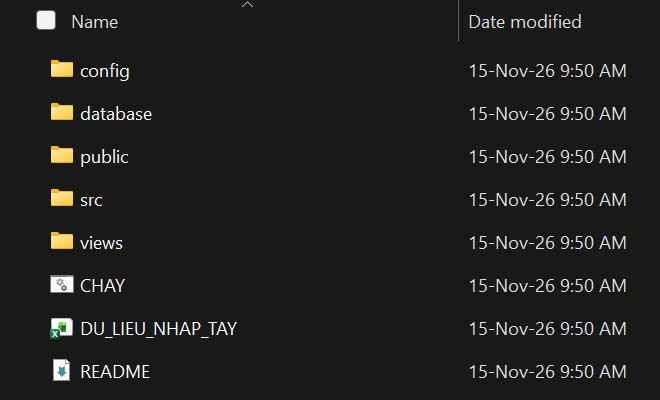
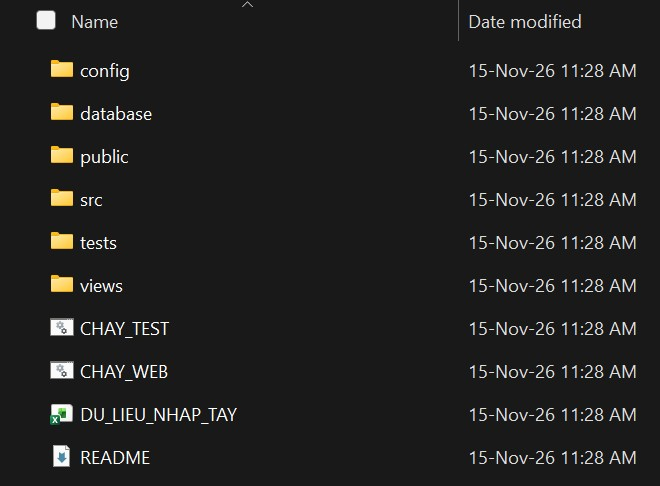
Tách file chạy: CHAY_WEB.bat chạy web, CHAY_TEST.bat chạy bộ test và dừng cho đọc kết quả
VÌ SAO: user bấm đúp tests\chay.php trong gói thì cửa sổ đóng ngay khi chạy xong, không kịp xem test
xanh hay đỏ; tên CHAY.bat (chạy web) cạnh tests\chay.php lại dễ nhầm. User chọn (15/11/2026): đổi tên
CHAY.bat thành CHAY_WEB.bat, thêm CHAY_TEST.bat; phần tìm XAMPP, bật MySQL, kiểm tài khoản root tách ra
database\chuan_bi.bat để hai file bat không chép code của nhau. CHAY_TEST.bat tạo cipher_test nếu thiếu,
chạy test rồi pause. Bước [1/4]..[4/4] in y như cũ nên ảnh cửa sổ CHAY_WEB trong báo cáo vẫn đúng.

Đã thử trong gói giải nén: CHAY_TEST.bat XANH 136 và dừng chờ phím, kể cả khi chưa có cipher_test;
CHAY_WEB.bat chạy web trả 200; cả hai bấm một mình (chưa giải nén) đều báo giải nén rồi dừng.
Thêm test chay_test_bat_chay_bo_test_roi_dung_cho_doc (đã thấy đỏ trước khi có file).

TÀI LIỆU: README (Cách 1, dòng chạy test), BAO_CAO (cây thư mục, Phần VI, ảnh thư mục giải nén chụp lại),
KIEM_THU (cách chạy test, 136 test), DU_LIEU_NHAP_TAY.xlsx sinh lại; mọi chỗ ghi CHAY.bat đổi thành CHAY_WEB.bat.

diff --git a/tests/chay.php b/tests/chay.php
@@ -2731,11 +2731,11 @@ function test_nhat_ky_hien_ip_o_moi_do_rong_man_hinh(PDO $pdo): void
     kiem(str_contains($trang, 'o-xuong-dong'), 'Ô mô tả dài phải được xuống dòng (o-xuong-dong)');
 }
 
-// Luật: CHAY.bat, hướng dẫn cài tay trong README và bước nạp dữ liệu mẫu trên máy chủ thật nạp đúng mọi file SQL có thật, theo thứ tự schema → seed → seed_demo.
-// Vì sao: User 13/11/2026 chốt hai đường chạy cho người chấm: bấm CHAY.bat, hoặc làm tay theo README (bảng Bước 4);
+// Luật: CHAY_WEB.bat, hướng dẫn cài tay trong README và bước nạp dữ liệu mẫu trên máy chủ thật nạp đúng mọi file SQL có thật, theo thứ tự schema → seed → seed_demo.
+// Vì sao: User 13/11/2026 chốt hai đường chạy cho người chấm: bấm CHAY_WEB.bat, hoặc làm tay theo README (bảng Bước 4);
 //         14/11/2026 chốt web thật có dữ liệu y như bản nộp (bước nap_mau trong deploy/dung_vps.sh).
 //         Sai thứ tự là hỏng: seed cần bảng của schema, seed_demo cần danh mục và tài khoản của seed.
-// Đỏ nghĩa là: Đổi tên, thêm, bớt file trong database/ mà quên sửa vòng for của CHAY.bat, bảng Bước 4 của README hoặc
+// Đỏ nghĩa là: Đổi tên, thêm, bớt file trong database/ mà quên sửa vòng for của CHAY_WEB.bat, bảng Bước 4 của README hoặc
 //         vòng for của nap_mau, hoặc ba nơi ghi thứ tự khác nhau.
 // Đừng: Ghép ba file thành một trong repo: schema.sql còn dùng nạp CSDL test, seed_demo tách riêng vì test dựa vào đúng 9 chứng chỉ của seed.
 // Nhóm: CSDL, ràng buộc, dữ liệu mẫu (Ng, Nj)
@@ -2743,22 +2743,22 @@ function test_chay_bat_va_readme_nap_du_file_sql_dung_thu_tu(PDO $pdo): void
 {
     $goc = __DIR__ . '/..';
     $coThat = array_map(fn(string $f): string => basename($f, '.sql'), glob("$goc/database/*.sql"));
-    kiem(preg_match('/for %%F in \(([^)]+)\) do/', file_get_contents("$goc/CHAY.bat"), $m) === 1, 'CHAY.bat phải nạp SQL bằng vòng "for %%F in (...)"');
+    kiem(preg_match('/for %%F in \(([^)]+)\) do/', file_get_contents("$goc/CHAY_WEB.bat"), $m) === 1, 'CHAY_WEB.bat phải nạp SQL bằng vòng "for %%F in (...)"');
     $thuTuBat = preg_split('/\s+/', trim($m[1]));
     preg_match_all('/^\| \d \| `database\\\\(\w+)\.sql` \|/m', file_get_contents("$goc/README.md"), $m);
     $thuTuReadme = $m[1];
-    kiem($thuTuBat === ['schema', 'seed', 'seed_demo'], 'CHAY.bat nạp theo thứ tự ' . implode(', ', $thuTuBat) . ', phải là schema, seed, seed_demo');
-    kiem($thuTuReadme === $thuTuBat, 'README Bước 4 ghi ' . implode(', ', $thuTuReadme) . ', khác CHAY.bat');
+    kiem($thuTuBat === ['schema', 'seed', 'seed_demo'], 'CHAY_WEB.bat nạp theo thứ tự ' . implode(', ', $thuTuBat) . ', phải là schema, seed, seed_demo');
+    kiem($thuTuReadme === $thuTuBat, 'README Bước 4 ghi ' . implode(', ', $thuTuReadme) . ', khác CHAY_WEB.bat');
     if (is_file("$goc/deploy/dung_vps.sh")) { // Gói nộp không có deploy/.
         kiem(preg_match('/for tep in ([\w ]+); do/', file_get_contents("$goc/deploy/dung_vps.sh"), $m) === 1
-            && preg_split('/\s+/', trim($m[1])) === $thuTuBat, 'Bước nap_mau trong deploy/dung_vps.sh phải nạp đúng thứ tự như CHAY.bat');
+            && preg_split('/\s+/', trim($m[1])) === $thuTuBat, 'Bước nap_mau trong deploy/dung_vps.sh phải nạp đúng thứ tự như CHAY_WEB.bat');
     }
     $thieu = array_diff($coThat, $thuTuBat);
     kiem($thieu === [], 'database/ có file không được nạp: ' . implode(', ', $thieu));
 }
 
-// Luật: CHAY.bat dừng và bảo giải nén khi không thấy database\ và public\ cạnh nó, và dừng khi một file SQL nạp hỏng.
-// Vì sao: Lỗi user gặp 13/11/2026: bấm CHAY.bat ngay trong file nén bằng WinRAR, WinRAR chỉ bung riêng file bat vào
+// Luật: CHAY_WEB.bat dừng và bảo giải nén khi không thấy database\ và public\ cạnh nó, và dừng khi một file SQL nạp hỏng.
+// Vì sao: Lỗi user gặp 13/11/2026: bấm CHAY_WEB.bat ngay trong file nén bằng WinRAR, WinRAR chỉ bung riêng file bat vào
 //         Temp\Rar$DIa..., cả 3 file SQL "cannot find the path" mà bat vẫn báo Xong, rồi web báo thiếu thư mục public.
 // Đỏ nghĩa là: Bỏ bước kiểm đủ file trước bước tìm XAMPP, hoặc lệnh nạp SQL quay về "if errorlevel 1" (mở file thất bại
 //         thì lệnh không chạy, errorlevel không đổi, nên lỗi bị nuốt).
@@ -2766,13 +2766,37 @@ function test_chay_bat_va_readme_nap_du_file_sql_dung_thu_tu(PDO $pdo): void
 // Nhóm: CSDL, ràng buộc, dữ liệu mẫu (Ng, Nj)
 function test_chay_bat_dung_khi_chay_trong_file_nen_hoac_nap_hong(PDO $pdo): void
 {
-    $bat = file_get_contents(__DIR__ . '/../CHAY.bat');
-    $timXampp = strpos($bat, '---------- 1. Tim XAMPP'); // Dòng tiêu đề bước 1, không phải dòng tóm tắt đầu file.
+    $bat = file_get_contents(__DIR__ . '/../CHAY_WEB.bat');
+    $timXampp = strpos($bat, 'call "database\chuan_bi.bat"'); // Bước tìm XAMPP nằm ở file chung, gọi từ dòng này.
     foreach (['database\schema.sql', 'public\index.php'] as $tep) {
         $kiemTep = strpos($bat, 'if not exist "' . $tep . '" goto loi_chua_giai_nen');
-        kiem($kiemTep !== false && $kiemTep < $timXampp, "CHAY.bat phải kiểm $tep trước khi tìm XAMPP");
+        kiem($kiemTep !== false && $timXampp !== false && $kiemTep < $timXampp,"CHAY_WEB.bat phải kiểm $tep trước khi tìm XAMPP");
     }
     kiem(preg_match('/< "database\\\\%%F\.sql" \|\| goto loi_nap/', $bat) === 1, 'Lệnh nạp SQL phải dừng bằng "|| goto loi_nap"');
+}
+
+// Luật: CHAY_TEST.bat chỉ chạy bộ test: chuẩn bị XAMPP, MySQL bằng database\chuan_bi.bat (CHAY_WEB.bat dùng chung), tạo cipher_test nếu thiếu, chạy tests\chay.php rồi dừng chờ bấm phím.
+// Vì sao: User 15/11/2026: bấm đúp tests\chay.php thì cửa sổ đóng ngay khi chạy xong, không kịp xem kết quả; tên CHAY.bat
+//         (chạy web) và tests\chay.php dễ nhầm nên đổi thành CHAY_WEB.bat, CHAY_TEST.bat; phần tìm XAMPP, bật MySQL tách ra một file chung.
+// Đỏ nghĩa là: CHAY_TEST.bat thiếu pause (cửa sổ lại tự đóng), thôi tạo cipher_test, hoặc một trong hai file bat tự chép lại phần tìm XAMPP.
+// Đừng: Gộp chạy test vào CHAY_WEB.bat; mỗi file bat làm đúng một việc, nhìn tên là biết.
+// Nhóm: CSDL, ràng buộc, dữ liệu mẫu (Ng, Nj)
+function test_chay_test_bat_chay_bo_test_roi_dung_cho_doc(PDO $pdo): void
+{
+    $goc = __DIR__ . '/..';
+    kiem(!is_file("$goc/CHAY.bat"), 'CHAY.bat đã đổi tên thành CHAY_WEB.bat');
+    kiem(is_file("$goc/database/chuan_bi.bat"), 'Thiếu database\chuan_bi.bat');
+    $chung = (string) @file_get_contents("$goc/database/chuan_bi.bat");
+    kiem(str_contains($chung, 'Tim XAMPP') && str_contains($chung, 'mysqld.exe'), 'chuan_bi.bat phải tìm XAMPP và bật MySQL');
+    foreach (['CHAY_WEB.bat', 'CHAY_TEST.bat'] as $ten) {
+        $bat = (string) @file_get_contents("$goc/$ten");
+        kiem(str_contains($bat, 'call "database\chuan_bi.bat"'), "$ten phải gọi database\\chuan_bi.bat");
+        kiem(!str_contains($bat, 'mysqld.exe') && !str_contains($bat, ':\xampp\php\php.exe'), "$ten không được tự chép phần tìm XAMPP, bật MySQL");
+    }
+    $test = (string) @file_get_contents("$goc/CHAY_TEST.bat");
+    kiem(str_contains($test, 'CREATE DATABASE IF NOT EXISTS cipher_test'), 'CHAY_TEST.bat phải tạo cipher_test nếu thiếu');
+    kiem(preg_match('/"%PHP%" "?tests\\\\chay\.php"?\r?\n(.*\r?\n){0,5}pause/', $test) === 1, 'CHAY_TEST.bat phải chạy tests\chay.php rồi pause');
+    kiem(!str_contains($test, '-S localhost'), 'CHAY_TEST.bat không được chạy web');
 }
 
 // Luật: Mọi ô ngày (date, datetime-local) nhận chữ dán dạng ngày/tháng/năm như ô ngày trong file Excel dữ liệu mẫu.
@@ -2792,10 +2816,10 @@ function test_o_ngay_nhan_chu_dan_tu_excel(PDO $pdo): void
         'Mẫu ngày/tháng/năm của docNgayDan phải khớp chữ Excel chép ra: 24/11/2026 00:00');
 }
 
-// Luật: Nhật ký ra màn hình chỉ in khi web chạy bằng php -S (CHAY.bat), mỗi lần một dòng có giờ, chữ bỏ dấu; CHAY.bat chạy php -S với -q.
-// Vì sao: User 14/11/2026: cửa sổ CHAY.bat chỉ toàn dòng Accepted/Closing vô nghĩa, cần biết từng thao tác. Trên VPS
+// Luật: Nhật ký ra màn hình chỉ in khi web chạy bằng php -S (CHAY_WEB.bat), mỗi lần một dòng có giờ, chữ bỏ dấu; CHAY_WEB.bat chạy php -S với -q.
+// Vì sao: User 14/11/2026: cửa sổ CHAY_WEB.bat chỉ toàn dòng Accepted/Closing vô nghĩa, cần biết từng thao tác. Trên VPS
 //         (PHP-FPM) không có cửa sổ nào để in, và in vào bộ test thì làm rối kết quả test.
-// Đỏ nghĩa là: inRaManHinh in cả khi không phải cli-server, in chữ có dấu (cửa sổ lệnh Windows vỡ chữ), hoặc CHAY.bat
+// Đỏ nghĩa là: inRaManHinh in cả khi không phải cli-server, in chữ có dấu (cửa sổ lệnh Windows vỡ chữ), hoặc CHAY_WEB.bat
 //         bỏ -q làm các dòng Accepted/Closing quay lại.
 // Đừng: Lọc dòng của PHP bằng findstr: đo 14/11/2026 findstr dồn dữ liệu, nhật ký không hiện kịp.
 // Nhóm: Giao diện, triển khai (Giao diện)
@@ -2810,7 +2834,7 @@ function test_nhat_ky_man_hinh_chi_in_khi_chay_bang_php_s(PDO $pdo): void
     $dong = file_get_contents($tep);
     unlink($tep);
     kiem(preg_match('/^\d{2}:\d{2}:\d{2}  \* admin: Them chung chi - Duong\R$/D', $dong) === 1, "Dòng in ra sai: $dong");
-    kiem(str_contains(file_get_contents(__DIR__ . '/../CHAY.bat'), '"%PHP%" -q -S localhost:'), 'CHAY.bat phải chạy php -S với -q');
+    kiem(str_contains(file_get_contents(__DIR__ . '/../CHAY_WEB.bat'), '"%PHP%" -q -S localhost:'), 'CHAY_WEB.bat phải chạy php -S với -q');
 }
 
 // Luật: Nút Xuất CSV, Bản in nằm ở dòng tiêu đề của Danh sách và Thống kê, mang theo bộ lọc và cách xếp đang xem.

diff --git a/src/nhat_ky.php b/src/nhat_ky.php
@@ -7,7 +7,7 @@ const NHAT_KY_MOI_TRANG = 50;
 
 // Ba mức của nhật ký (user chốt 14/11/2026), theo cách nhật ký người dùng xem thường chia (Windows Event Viewer;
 // OWASP khuyên đánh dấu riêng đăng nhập sai, thao tác rủi ro cao, dấu hiệu tấn công). Không có mức Lỗi hay Debug:
-// nhật ký này ghi việc người dùng làm, lỗi chương trình nằm ở log của PHP. Nhãn trên trang và chữ in ra cửa sổ CHAY.bat.
+// nhật ký này ghi việc người dùng làm, lỗi chương trình nằm ở log của PHP. Nhãn trên trang và chữ in ra cửa sổ CHAY_WEB.bat.
 const MUC_DO = [
     'thong_tin' => ['nhan' => 'Thông tin', 'mau' => 'secondary', 'man_hinh' => 'THONG TIN'],
     'canh_bao' => ['nhan' => 'Cảnh báo', 'mau' => 'yellow', 'man_hinh' => 'CANH BAO'],
@@ -79,10 +79,10 @@ function ghiNhatKy(PDO $pdo, string $hanhDong, ?string $loai = null, ?int $idDoi
     }
 }
 
-// Nhật ký ra cửa sổ dòng lệnh (user 14/11/2026: cửa sổ CHAY.bat phải cho biết hệ thống đang làm gì, thay cho các dòng
+// Nhật ký ra cửa sổ dòng lệnh (user 14/11/2026: cửa sổ CHAY_WEB.bat phải cho biết hệ thống đang làm gì, thay cho các dòng
 // Accepted/Closing vô nghĩa của PHP). Hai nguồn: ghiNhatKy() in mỗi thao tác, mở đầu bằng mức ([THONG TIN], [CANH BAO],
-// [NGUY HIEM]); khoi_dong.php in mỗi trang mở, và mỗi lần gửi form bị từ chối thành dòng [CANH BAO] kèm lý do. Chỉ in khi web chạy bằng máy chủ có sẵn của PHP (php -S, tức CHAY.bat); trên VPS (PHP-FPM) và trong bộ test (cli)
-// không in gì. Chữ bỏ dấu vì cửa sổ lệnh Windows hay vỡ chữ có dấu, như lời nhắn trong CHAY.bat. Ghi hỏng (cửa sổ đã
+// [NGUY HIEM]); khoi_dong.php in mỗi trang mở, và mỗi lần gửi form bị từ chối thành dòng [CANH BAO] kèm lý do. Chỉ in khi web chạy bằng máy chủ có sẵn của PHP (php -S, tức CHAY_WEB.bat); trên VPS (PHP-FPM) và trong bộ test (cli)
+// không in gì. Chữ bỏ dấu vì cửa sổ lệnh Windows hay vỡ chữ có dấu, như lời nhắn trong CHAY_WEB.bat. Ghi hỏng (cửa sổ đã
 // đóng) thì bỏ qua: nhật ký màn hình không được làm hỏng thao tác. $sapi, $dich chỉ để test thay được.
 function inRaManHinh(string $noiDung, string $sapi = PHP_SAPI, string $dich = 'php://stderr'): void
 {

diff --git a/scripts/tao_du_lieu_nhap_tay.py b/scripts/tao_du_lieu_nhap_tay.py
@@ -171,7 +171,7 @@ TRANG = [
 HUONG_DAN = [
     "Dữ liệu mẫu để thử nhập tay: Hệ thống quản lý chứng chỉ số và thời hạn sử dụng",
     "",
-    "1. Chạy web theo README (Cách 1: bấm CHAY.bat; Cách 2: cài tay), đăng nhập admin / Cipher@2026.",
+    "1. Chạy web theo README (Cách 1: bấm CHAY_WEB.bat; Cách 2: cài tay), đăng nhập admin / Cipher@2026.",
     "2. Nhập lần lượt từng trang tính, theo đúng số thứ tự: trang sau dùng dữ liệu trang trước tạo ra",
     "   (chứng chỉ chọn tên miền, tổ chức cấp phải có sẵn trong danh mục).",
     "3. Mỗi trang tính ghi form cần mở ở dòng đầu. Chép từng ô của một dòng vào form, bấm nút lưu, so với cột Kết quả mong đợi.",
@@ -180,8 +180,8 @@ HUONG_DAN = [
     "",
     "Ngày tự tính theo hôm nay (công thức =TODAY()+N): mở file ngày nào cũng ra đúng số ngày còn lại và đúng mốc cảnh báo.",
     "Ô ngày trên web dán được chữ ngày/tháng/năm: chép ô ngày trong file rồi dán thẳng vào ô ngày của form.",
-    "Chạy bằng CHAY.bat thì cửa sổ đen ghi từng thao tác kèm mức [THONG TIN] / [CANH BAO] / [NGUY HIEM]; lần bị từ chối là [CANH BAO] kèm lý do.",
-    "Muốn nhập lại từ đầu: bấm CHAY.bat và chọn C để nạp lại dữ liệu mẫu (xoá mọi thứ đã nhập).",
+    "Chạy bằng CHAY_WEB.bat thì cửa sổ đen ghi từng thao tác kèm mức [THONG TIN] / [CANH BAO] / [NGUY HIEM]; lần bị từ chối là [CANH BAO] kèm lý do.",
+    "Muốn nhập lại từ đầu: bấm CHAY_WEB.bat và chọn C để nạp lại dữ liệu mẫu (xoá mọi thứ đã nhập).",
     "Trang 7 cần máy có internet. badssl.com là máy chủ thử nghiệm ở Mỹ, đôi khi chậm vài giây: nếu một dòng báo không trả lời thì đọc lại.",
 ]
 

diff --git a/temp/cong_cu_bao_cao/chup_het.py b/temp/cong_cu_bao_cao/chup_het.py
@@ -102,7 +102,7 @@ def cai_dat():
     Giao diện tiếng Anh (cookie pma_lang=en) cho khớp chữ trong hướng dẫn. Ảnh tạo CSDL vẽ lại trạng thái máy người chấm
     lúc CHƯA có cipher_dev: ẩn các CSDL có sẵn trên máy chụp (AN) khỏi cây bên trái và bảng, sửa dòng Total theo số dòng
     còn lại; không bấm Create, không đụng CSDL nào. Ba ảnh còn lại của phần cài đặt chụp bằng chup_cua_so.ps1:
-      - chay_bat: conhost.exe cmd.exe /c "<bản giải nén>\\CHAY.bat", chờ 17 giây (10 giây của câu hỏi nạp lại), rồi
+      - chay_bat: conhost.exe cmd.exe /c "<bản giải nén>\\CHAY_WEB.bat", chờ 17 giây (10 giây của câu hỏi nạp lại), rồi
         -TieuDe "Cipher Cert" -Lop ConsoleWindowClass; đóng cửa sổ là tắt web.
       - xampp_control: chạy C:\\xampp\\apache\\bin\\httpd.exe và C:\\xampp\\xampp-control.exe, -MaTienTrinh <mã của
         xampp-control>; ứng dụng này không theo tỉ lệ màn hình nên ảnh ra có phần thừa, cắt còn 663x433; xong thì tắt cả hai.

diff --git a/src/khoi_dong.php b/src/khoi_dong.php
@@ -8,7 +8,7 @@ require_once __DIR__ . '/nhat_ky.php';
 
 batDauPhien();
 
-// Chạy bằng php -S (CHAY.bat): mỗi trang mở in một dòng ra cửa sổ (inRaManHinh ở nhat_ky.php): cách gửi, địa chỉ, mã trả về,
+// Chạy bằng php -S (CHAY_WEB.bat): mỗi trang mở in một dòng ra cửa sổ (inRaManHinh ở nhat_ky.php): cách gửi, địa chỉ, mã trả về,
 // thời gian xử lý, người. In lúc trang chạy xong để có mã trả về thật (302 khi chuyển hướng, 403 khi không đủ quyền).
 if (PHP_SAPI === 'cli-server') {
     register_shutdown_function(function (): void {

diff --git a/docs/BAO_CAO.md b/docs/BAO_CAO.md
@@ -68,7 +68,7 @@ Mục tiêu nhóm đặt ra:
 | Xử lý phía máy chủ | PHP 8 thuần, mỗi trang một file | Không dùng framework PHP, để mọi dòng code đều do nhóm viết và hiểu |
 | Truy cập CSDL | PDO với Prepared Statements | Một cửa duy nhất: hàm `ketNoiCsdl()` |
 | CSDL | MySQL/MariaDB của XAMPP | XAMPP thực chất cài MariaDB 10.4; bản chạy thật dùng MariaDB 10.11 |
-| Chạy trên máy | XAMPP 8.2.12 (PHP 8.2.12) | Bấm `CHAY.bat` hoặc chép vào `htdocs` |
+| Chạy trên máy | XAMPP 8.2.12 (PHP 8.2.12) | Bấm `CHAY_WEB.bat` hoặc chép vào `htdocs` |
 | Bản chạy thật | Ubuntu 24.04, Caddy, PHP-FPM, HTTPS | <https://cert.cipher.id.vn> |
 
 | Thư viện | Dùng cho | Giấy phép |
@@ -128,12 +128,14 @@ flowchart TB
 
 ```
 cipher/
-├── CHAY.bat                Bấm đúp là chạy: bật MySQL, nạp CSDL, chạy web, mở trình duyệt
+├── CHAY_WEB.bat            Bấm đúp là chạy web: bật MySQL, nạp CSDL, chạy web, mở trình duyệt
+├── CHAY_TEST.bat           Bấm đúp là chạy bộ test, dừng lại cho đọc kết quả
 ├── README.md               Hướng dẫn cài đặt và sử dụng cho người chấm
 ├── DU_LIEU_NHAP_TAY.xlsx   Dữ liệu mẫu để tự nhập tay, có dòng đúng và dòng sai
 ├── config/db.php           Cửa duy nhất tới CSDL: ketNoiCsdl(), múi giờ, chế độ strict
-├── database/               schema.sql (bảng, view, trigger), seed.sql, seed_demo.sql
-├── tests/chay.php          Bộ test tự động: 135 test, lệnh --erd sinh sơ đồ ERD
+├── database/               schema.sql (bảng, view, trigger), seed.sql, seed_demo.sql;
+│                           chuan_bi.bat: tìm XAMPP, bật MySQL, phần chung của hai file .bat
+├── tests/chay.php          Bộ test tự động: 136 test, lệnh --erd sinh sơ đồ ERD
 ├── src/                    Toàn bộ quy tắc nghiệp vụ, không in HTML
 │   ├── khoi_dong.php       Mọi trang gọi đầu tiên: nạp CSDL, phiên, nhật ký; hàm e(), ô form
 │   ├── auth.php            Đăng nhập, đăng xuất, phiên, phân quyền, mã CSRF
@@ -307,7 +309,7 @@ hạng chỉ nằm ở một nơi.
 - Chặn sửa, xoá: 2 trigger `nhat_ky_cam_sua`, `nhat_ky_cam_xoa` trong `database/schema.sql` từ chối
   mọi lệnh `UPDATE`, `DELETE` trên `audit_logs`, kể cả lệnh gõ thẳng vào CSDL.
 - Xem: `public/admin/nhat_ky.php`, chỉ Admin; `docLocNhatKy()`, `layNhatKy()`.
-- In ra cửa sổ lệnh khi chạy bằng `CHAY.bat`: `inRaManHinh()`.
+- In ra cửa sổ lệnh khi chạy bằng `CHAY_WEB.bat`: `inRaManHinh()`.
 
 ### 3.12. Người dùng, tài khoản của tôi
 
@@ -368,21 +370,21 @@ Có hai cách chạy trên máy Windows đã cài [XAMPP](https://www.apachefrie
 **Cách 1** bấm một file là chạy; **Cách 2** cài tay từng bước theo kiểu quen thuộc của XAMPP. Không muốn cài thì
 dùng bản chạy thật tại <https://cert.cipher.id.vn>.
 
-## 1. Cách 1: bấm đúp `CHAY.bat` (nhanh nhất)
+## 1. Cách 1: bấm đúp `CHAY_WEB.bat` (nhanh nhất)
 
 1. **Giải nén** file nén ra một thư mục bất kỳ: bấm chuột phải vào file nén → **Extract All** (Giải nén).
-   Không cần chép vào `htdocs`. Bấm `CHAY.bat` ngay bên trong file nén sẽ không chạy, vì chương trình nén
+   Không cần chép vào `htdocs`. Bấm `CHAY_WEB.bat` ngay bên trong file nén sẽ không chạy, vì chương trình nén
    chỉ bung riêng file đó ra thư mục tạm; khi đó file tự dừng và nhắc giải nén.
-2. Bấm đúp **`CHAY.bat`**. Không cần mở XAMPP Control Panel trước.
+2. Bấm đúp **`CHAY_WEB.bat`**. Không cần mở XAMPP Control Panel trước.
 3. Trình duyệt tự mở trang giới thiệu. Bấm **Đăng nhập**, dùng tài khoản ở mục 3.
 
-![Thư mục sau khi giải nén: bấm đúp CHAY, file có biểu tượng bánh răng (Windows thường ẩn đuôi .bat)](anh/thu_muc_giai_nen.jpg)
+![Thư mục sau khi giải nén: bấm đúp CHAY_WEB để chạy web, CHAY_TEST để chạy bộ test; hai file có biểu tượng bánh răng (Windows thường ẩn đuôi .bat)](anh/thu_muc_giai_nen.jpg)
 
 Cửa sổ đen làm thay người dùng 4 bước, mỗi bước in một dòng `[1/4]` … `[4/4]`: tìm XAMPP, bật MySQL nếu chưa bật,
 lần đầu tự tạo CSDL `cipher_dev` và nạp dữ liệu mẫu (50 chứng chỉ, 2 tài khoản), rồi chạy web ở
 <http://localhost:8000> (cổng bận thì dùng 8001, 8002...). **Đóng cửa sổ đen là tắt web.**
 
-![Cửa sổ của CHAY.bat: bốn bước từ 1/4 đến 4/4, địa chỉ web, hai tài khoản, rồi nhật ký từng trang được mở. Ảnh chụp ở lần bấm thứ hai nên bước 3/4 hỏi có nạp lại dữ liệu mẫu không](anh/chay_bat.jpg)
+![Cửa sổ của CHAY_WEB.bat: bốn bước từ 1/4 đến 4/4, địa chỉ web, hai tài khoản, rồi nhật ký từng trang được mở. Ảnh chụp ở lần bấm thứ hai nên bước 3/4 hỏi có nạp lại dữ liệu mẫu không](anh/chay_bat.jpg)
 
 Lần bấm đầu tiên, bước `[3/4]` không hỏi mà ghi `Dang tao CSDL cipher_dev va nap du lieu mau...`, kèm tên ba file
 được nạp và dòng `Xong: 50 chung chi mau, 2 tai khoan.` Chữ `admin`, `khach` ở cuối mỗi dòng nhật ký là người mở trang
@@ -400,7 +402,11 @@ việc bình thường; `[CANH BAO]` là đăng nhập sai, thu hồi, khoá, đ
 `[NGUY HIEM]` là xoá, dấu hiệu dò mật khẩu hay dò mạng nội bộ. Chữ không dấu vì cửa sổ lệnh của Windows hay vỡ chữ
 tiếng Việt có dấu.
 
-![Nhật ký web in ra cửa sổ lệnh khi chạy bằng php -S, cách chạy mà CHAY.bat dùng: mỗi trang một dòng, mỗi thao tác một dòng có mức](anh/cua_so_nhat_ky.jpg)
+![Nhật ký web in ra cửa sổ lệnh khi chạy bằng php -S, cách chạy mà CHAY_WEB.bat dùng: mỗi trang một dòng, mỗi thao tác một dòng có mức](anh/cua_so_nhat_ky.jpg)
+
+**Chạy bộ test tự động:** bấm đúp **`CHAY_TEST.bat`** (cùng thư mục với `CHAY_WEB.bat`). File tự bật MySQL, tạo
+CSDL `cipher_test` (riêng cho test, không đụng dữ liệu của web), chạy 136 test trong khoảng 40 giây rồi dừng chờ
+bấm phím. Dòng cuối `XANH: 136 test` là mọi test đều đạt; kết quả chi tiết ở Phần VII.
 
 ## 2. Cách 2: cài tay từng bước
 
@@ -476,7 +482,7 @@ Menu bên trái có hai tầng: thanh biểu tượng là các khu, bấm một 
 
 ![Sau khi đăng nhập: Dashboard và menu hai tầng](anh/dashboard.jpg)
 
-**Thử nhập tay:** mở **`DU_LIEU_NHAP_TAY.xlsx`** (cùng thư mục với `CHAY.bat`). Mỗi trang tính là một form, có dòng
+**Thử nhập tay:** mở **`DU_LIEU_NHAP_TAY.xlsx`** (cùng thư mục với `CHAY_WEB.bat`). Mỗi trang tính là một form, có dòng
 nhập đúng, dòng cố ý sai và kết quả mong đợi; ngày tự tính theo hôm nay. Ô ngày trên web dán được chữ ngày/tháng/năm
 chép từ file. Nên nhập theo thứ tự trang tính 1 đến 7, vì trang Chứng chỉ dùng tên miền và tổ chức cấp vừa tạo ở các
 trang trước.
@@ -518,7 +524,7 @@ cùng nắm luồng chung ở Phần V mục 3.1 và 3.5.
 | **Phần phụ trách** | Nền tảng và bảo mật | Chứng chỉ | Danh mục, cảnh báo, báo cáo |
 | **Chức năng** | Na Đăng nhập · Nb Người dùng · Ng CSDL, khoá, quan hệ · Ni Bảo mật · Nj Dữ liệu mẫu · Mở rộng 1 Nhật ký · Mở rộng 3 Chấm hạng an toàn | D1 Danh sách chứng chỉ · D4 Ngày cấp, hết hạn · D5 Trạng thái · D7 Gia hạn · Nd Tìm kiếm, lọc · Nf Kiểm tra JS + PHP · Mở rộng 2 Đọc chứng chỉ thật | D2 Tên miền, máy chủ · D3 Tổ chức cấp · D6 Cảnh báo · D8 Thống kê · D9 Xuất báo cáo · Nh Dashboard · Giao diện |
 | **Use case** | UC01, UC02, UC12, UC13 | UC04, UC05, UC05a, UC06, UC07, UC11 | UC03, UC08, UC09, UC10 |
-| **File chính** | `config/db.php`, `src/auth.php`, `src/nguoi_dung.php`, `src/nhat_ky.php`, `database/`, `login.php`, `logout.php`, trang Người dùng, Nhật ký, Tài khoản, phần chấm hạng trong `src/chung_chi.php`, `CHAY.bat` | `src/chung_chi.php` (phần chứng chỉ, lọc, sắp xếp, gia hạn, đọc chứng chỉ), các trang `chung_chi*.php`, `views/bo_loc.php`, `public/assets/app.js` (kiểm tra form) | `src/danh_muc.php`, `src/chung_chi.php` (phần cảnh báo, thống kê, CSV), Dashboard, `canh_bao.php`, `thong_ke.php`, `bao_cao_*.php`, trang danh mục, trang giới thiệu, `views/`, `app.css` |
+| **File chính** | `config/db.php`, `src/auth.php`, `src/nguoi_dung.php`, `src/nhat_ky.php`, `database/`, `login.php`, `logout.php`, trang Người dùng, Nhật ký, Tài khoản, phần chấm hạng trong `src/chung_chi.php`, `CHAY_WEB.bat` | `src/chung_chi.php` (phần chứng chỉ, lọc, sắp xếp, gia hạn, đọc chứng chỉ), các trang `chung_chi*.php`, `views/bo_loc.php`, `public/assets/app.js` (kiểm tra form) | `src/danh_muc.php`, `src/chung_chi.php` (phần cảnh báo, thống kê, CSV), Dashboard, `canh_bao.php`, `thong_ke.php`, `bao_cao_*.php`, trang danh mục, trang giới thiệu, `views/`, `app.css` |
 | **Số test phụ trách** | 45 | 39 | 51 |
 | **Tài liệu** | ERD, hướng dẫn cài đặt, phần bảo mật | Đặc tả use case phần chứng chỉ, sơ đồ trình tự Thêm và Gia hạn | Đặc tả chức năng phần thống kê, cảnh báo, giao diện; báo cáo kiểm thử |
 
@@ -527,9 +533,9 @@ cùng nắm luồng chung ở Phần V mục 3.1 và 3.5.
 ## 1. Kết quả đạt được
 
 - Đủ 19 chức năng của đề (D1–D9, Na–Nj) và 3 tiêu chí; thêm 3 chức năng mở rộng.
-- 135 test tự động đều đạt; 34 dòng kịch bản nhập tay đều cho đúng kết quả; kiểm thử bảo mật không tìm thấy lỗ hổng.
+- 136 test tự động đều đạt; 34 dòng kịch bản nhập tay đều cho đúng kết quả; kiểm thử bảo mật không tìm thấy lỗ hổng.
 - Hệ thống chạy thật trên internet qua HTTPS tại <https://cert.cipher.id.vn>, dùng được trên máy tính và điện thoại.
-- Người chấm chạy được trên máy bằng một lần bấm `CHAY.bat`, hoặc cài tay theo cách quen của XAMPP.
+- Người chấm chạy được trên máy bằng một lần bấm `CHAY_WEB.bat`, hoặc cài tay theo cách quen của XAMPP.
 
 ## 2. Hạn chế
 

diff --git a/README.md b/README.md
@@ -12,12 +12,12 @@ thống tự cảnh báo theo các mốc 30, 15, 7 ngày, có thống kê bằng
 Có hai cách chạy trên máy Windows đã cài [XAMPP](https://www.apachefriends.org) (đã thử với XAMPP 8.2.12):
 **Cách 1** bấm một file là chạy; **Cách 2** cài tay từng bước theo kiểu quen thuộc của XAMPP.
 
-## Cách 1: bấm đúp `CHAY.bat` (nhanh nhất)
+## Cách 1: bấm đúp `CHAY_WEB.bat` (nhanh nhất)
 
 1. **Giải nén** file nén ra một thư mục bất kỳ: bấm chuột phải vào file nén → **Extract All** (Giải nén).
-   Không cần chép vào `htdocs`. Bấm `CHAY.bat` ngay bên trong file nén sẽ không chạy, vì chương trình nén
+   Không cần chép vào `htdocs`. Bấm `CHAY_WEB.bat` ngay bên trong file nén sẽ không chạy, vì chương trình nén
    chỉ bung riêng file đó ra thư mục tạm.
-2. Bấm đúp **`CHAY.bat`**. Không cần mở XAMPP Control Panel trước.
+2. Bấm đúp **`CHAY_WEB.bat`**. Không cần mở XAMPP Control Panel trước.
 3. Trình duyệt tự mở trang giới thiệu. Bấm **Đăng nhập**, dùng tài khoản ở [mục Tài khoản](#tài-khoản).
 
 Cửa sổ đen làm thay bạn: tìm XAMPP, bật MySQL nếu chưa bật, lần đầu tự tạo CSDL `cipher_dev` và nạp dữ liệu
@@ -29,6 +29,10 @@ mẫu (50 chứng chỉ, 2 tài khoản), rồi chạy web ở <http://localhost
 - **Windows hiện "Windows protected your PC":** bấm **More info → Run anyway**. File chỉ chạy PHP và MySQL
   của XAMPP; mở bằng Notepad để đọc từng bước, mỗi bước có chú thích.
 - **Cửa sổ báo LỖI:** đọc dòng LỖI, làm theo hướng dẫn trong đó, hoặc chuyển sang Cách 2.
+
+**Chạy bộ test tự động:** bấm đúp **`CHAY_TEST.bat`** (cùng thư mục). File tự bật MySQL, tạo CSDL `cipher_test`
+(riêng cho test, không đụng dữ liệu của web), chạy 136 test trong khoảng 40 giây rồi dừng chờ bấm phím.
+Dòng cuối `XANH: 136 test` là mọi test đều đạt.
 
 ## Cách 2: cài tay từng bước
 

diff --git a/docs/SPEC.md b/docs/SPEC.md
@@ -200,7 +200,7 @@ Ngoài yêu cầu của đề, làm sau khi đủ 19 chức năng.
 - **Ghi ở đâu:** ngay trong các hàm xử lý dữ liệu, sau khi thao tác thành công; gia hạn ghi trong cùng giao dịch. Nhờ vậy không trang nào quên ghi.
 - **Ai xem:** chỉ Admin, ở trang Nhật ký: lọc theo người làm (kể cả người đã xoá), mức độ, hành động, khoảng ngày; 50 dòng một trang; đối tượng còn tồn tại thì có link tới nó.
 - **Không sửa, xoá được:** web không có chức năng này, và CSDL có trigger từ chối mọi lệnh `UPDATE`, `DELETE` trên bảng nhật ký, kể cả lệnh gõ thẳng vào CSDL. Giới hạn: người quản trị CSDL vẫn dọn được cả bảng bằng `TRUNCATE` hoặc gỡ trigger; bảng trống trơn thì nhìn là biết đã bị dọn.
-- **Bản in ra màn hình:** khi chạy trên máy bằng `CHAY.bat`, cửa sổ đen in mỗi trang được mở một dòng (giờ, cách gửi, địa chỉ, mã trả về, thời gian xử lý, người dùng) và mỗi thao tác một dòng mở đầu bằng `[THONG TIN]`, `[CANH BAO]` hoặc `[NGUY HIEM]`. Trên máy chủ thật không in gì ra màn hình.
+- **Bản in ra màn hình:** khi chạy trên máy bằng `CHAY_WEB.bat`, cửa sổ đen in mỗi trang được mở một dòng (giờ, cách gửi, địa chỉ, mã trả về, thời gian xử lý, người dùng) và mỗi thao tác một dòng mở đầu bằng `[THONG TIN]`, `[CANH BAO]` hoặc `[NGUY HIEM]`. Trên máy chủ thật không in gì ra màn hình.
 
 ![Trang Nhật ký: cột Mức ở đầu bảng, lọc được theo người làm, mức độ, hành động, khoảng ngày](anh/nhat_ky.jpg)
 

diff --git a/docs/HOC_TU_DAU.md b/docs/HOC_TU_DAU.md
@@ -1141,7 +1141,7 @@ xét theo thứ tự nào, cảnh báo tạo khi nào, gia hạn chặn trườn
 ### G5. Bước 5: test viết cùng lúc với code
 
 **Test** là đoạn code tự kiểm tra code khác: "gọi hàm này với dữ liệu này, kết quả phải là thế này". Bộ test của Cipher
-Cert ở [tests/chay.php](../tests/chay.php), hiện có 135 test, chạy mất khoảng 40 giây.
+Cert ở [tests/chay.php](../tests/chay.php), hiện có 136 test, chạy mất khoảng 40 giây.
 
 Vài cách làm đáng học:
 
